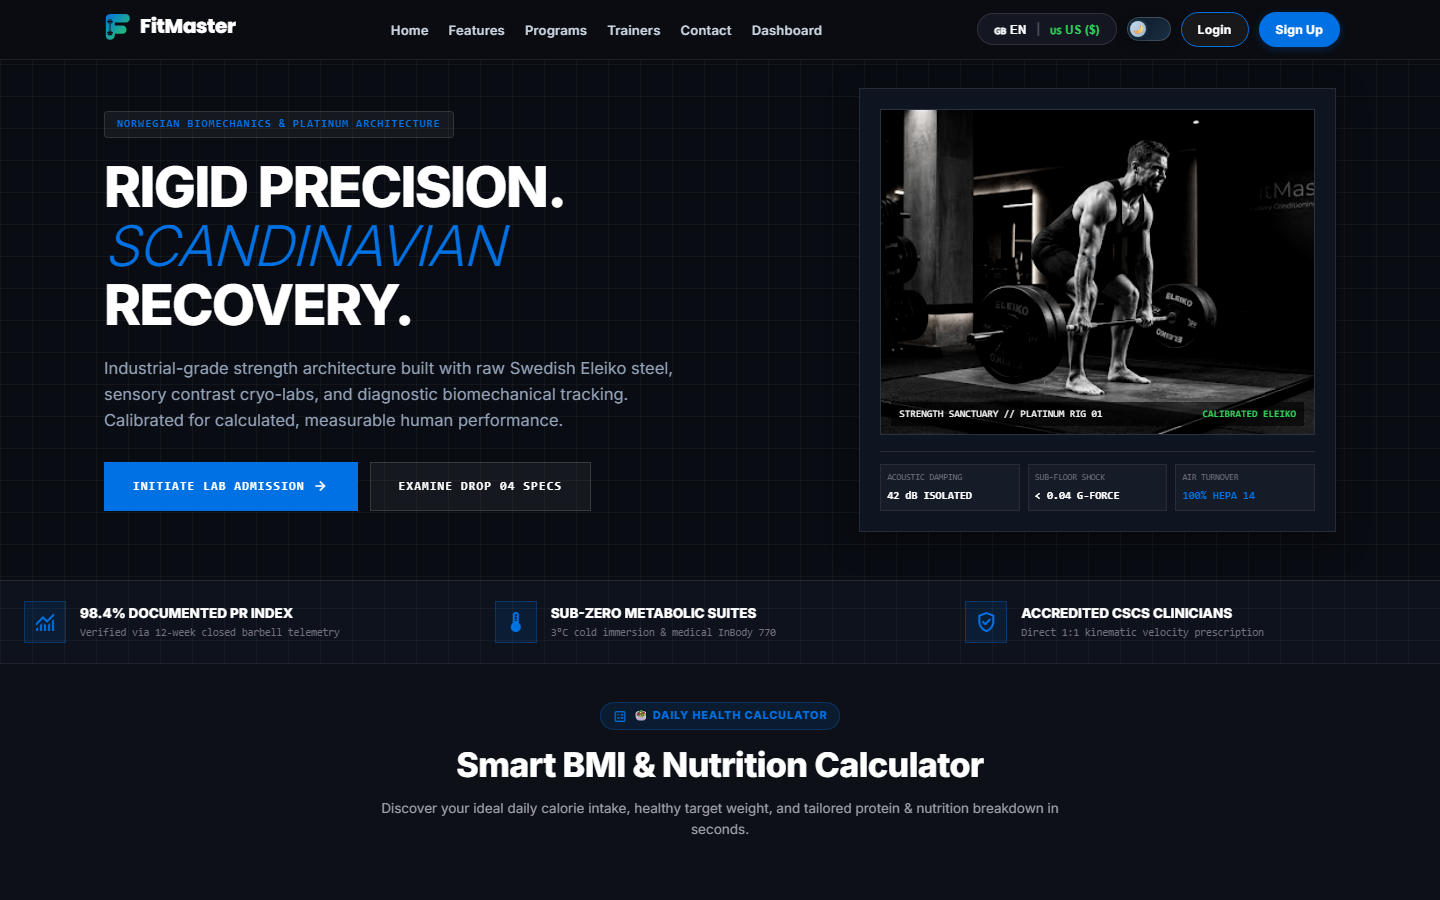
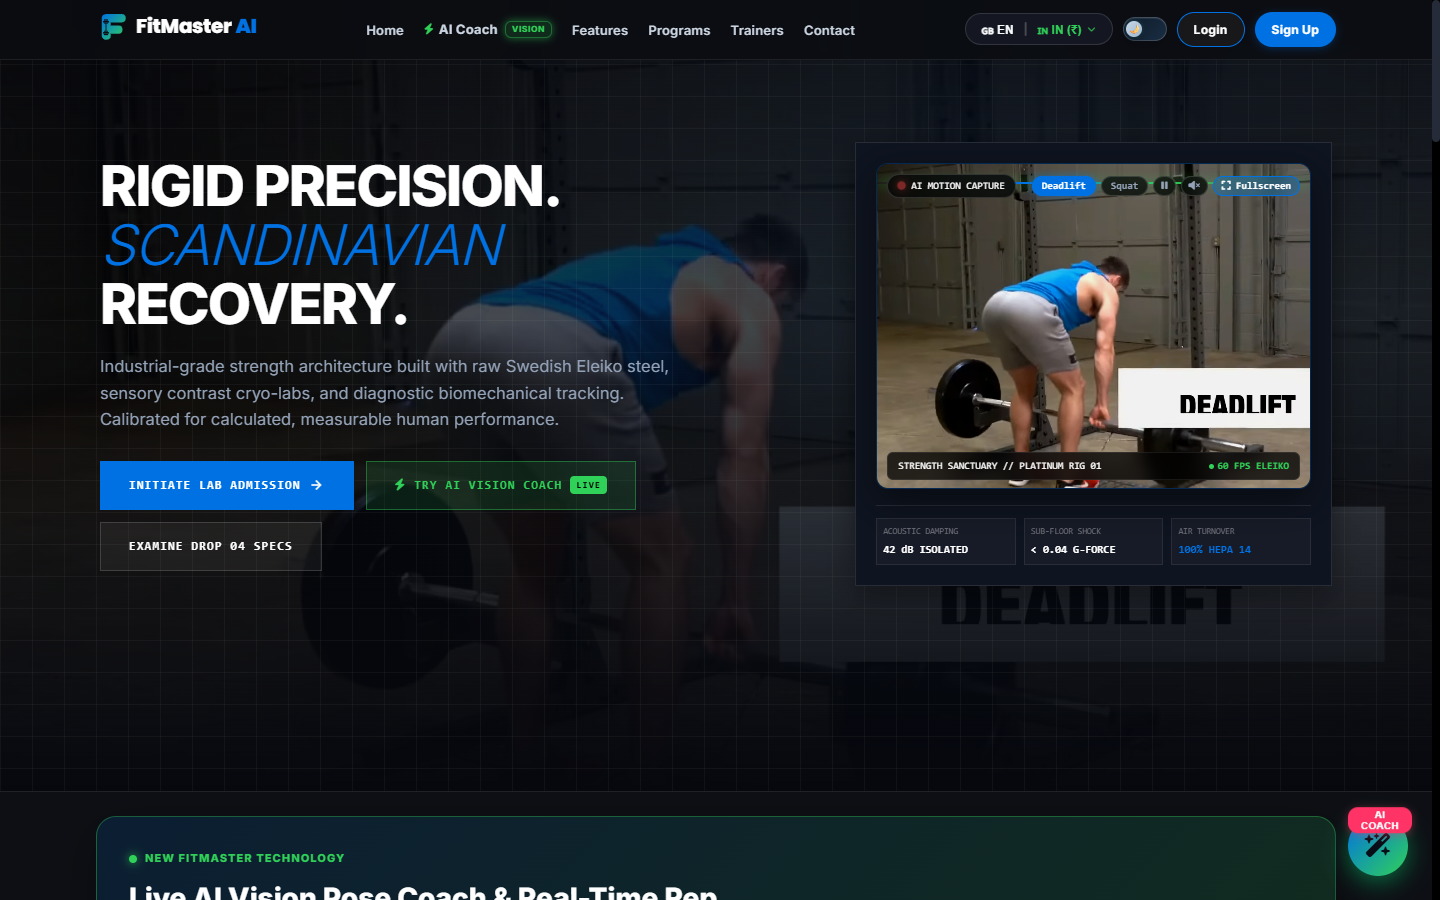
docs: Update README and add high-resolution screenshots for Fullscreen Video Hero, AI Vision Coach, and Architecture Blueprint

diff --git a/README.md b/README.md
@@ -1,17 +1,18 @@
-# ⚡ FitMaster — Next-Gen Fitness & Gym Management Platform
+# ⚡ FitMaster AI — Next-Gen AI Kinetic Fitness & Computer Vision Coaching Platform
 
 <p align="center">
-  <img src="static/images/fitmaster_logo.svg" alt="FitMaster Logo" width="180">
+  <img src="static/images/fitmaster_logo.svg" alt="FitMaster AI Logo" width="180">
 </p>
 
 <p align="center">
-  <b>An AI-powered, 3D interactive fitness ecosystem designed for athletes, personal trainers, and gym administrators.</b>
+  <b>An AI-powered, real-time computer vision fitness ecosystem designed for athletes, personal trainers, and gym administrators.</b>
 </p>
 
 <p align="center">
   <img src="https://img.shields.io/badge/Python-3.11%20%7C%203.12%20%7C%203.13-3776AB?style=for-the-badge&logo=python&logoColor=white" alt="Python">
-  <img src="https://img.shields.io/badge/Django-5.1%2B-092E20?style=for-the-badge&logo=django&logoColor=white" alt="Django">
-  <img src="https://img.shields.io/badge/Three.js-3D%20Visualizer-black?style=for-the-badge&logo=three.js&logoColor=white" alt="Three.js">
+  <img src="https://img.shields.io/badge/Django-6.0-092E20?style=for-the-badge&logo=django&logoColor=white" alt="Django">
+  <img src="https://img.shields.io/badge/Computer_Vision-MediaPipe_Pose-0071E3?style=for-the-badge&logo=google&logoColor=white" alt="MediaPipe">
+  <img src="https://img.shields.io/badge/AI_Chatbot-Google_Gemini-8E75C4?style=for-the-badge&logo=googlegemini&logoColor=white" alt="Gemini">
   <img src="https://img.shields.io/badge/Payment-Razorpay%20%2B%20UPI-00BAF2?style=for-the-badge&logo=razorpay&logoColor=white" alt="Razorpay">
   <img src="https://img.shields.io/badge/Status-Production%20Ready-brightgreen?style=for-the-badge" alt="Status">
 </p>
@@ -20,37 +21,43 @@
 
 ## 📸 Visual Previews & Screenshots
 
-### 1. 🌐 Landing Page & 3D Interactive Hero
-*Ultra-modern dark theme with Three.js particle dynamics, responsive navigation, and dynamic counters.*
-![FitMaster Landing Page](docs/screenshots/01_homepage.png)
+### 1. 🌐 Landing Page & Fullscreen Cinematic Video Hero
+*Industrial Eleiko steel dark theme with autoplaying athletic workout video background, laser scanner, and live AI vision access.*
+![FitMaster AI Landing Page](docs/screenshots/01_homepage.png)
 
 ---
 
-### 2. 🏋♂ Dynamic Workout & Training Programs
+### 2. 🤖 Live AI Vision Pose Coach & Real-Time Rep Counter
+*Client-side Google MediaPipe neural network tracking 33 skeletal body landmarks, validating joint angles (Squats, Curls, Pushups), and announcing live coaching audio cues.*
+![FitMaster AI Vision Coach](docs/screenshots/07_ai_coach.png)
+
+---
+
+### 3. 📑 Complete Engineering Architecture & Algorithmic Blueprint
+*System topology, Entity-Relationship schemas, Finite State Machine hysteresis, and DFD Level 0/1 specifications.*
+![FitMaster Architecture Documentation](docs/screenshots/08_architecture_docs.png)
+
+---
+
+### 4. 🏋♂ Dynamic Workout & Training Programs
 *Comprehensive catalog of Strength, Cardio, CrossFit, and Yoga programs with animated interactions.*
 ![FitMaster Programs](docs/screenshots/02_programs.png)
 
 ---
 
-### 3. 💳 Membership Tiers & Razorpay / UPI Gateway
-*Flexible starter, pro, and elite memberships integrated with Razorpay Checkout, BHIM UPI QR scan, and instant invoice generation.*
+### 5. 💳 Membership Tiers & Global Multi-Currency
+*Flexible starter, pro, and elite memberships integrated with 7-country currency switcher (INR, USD, EUR, GBP, AED, CAD, AUD) and instant invoicing.*
 ![FitMaster Memberships](docs/screenshots/03_memberships.png)
 
 ---
 
-### 4. 📞 Live 24/7 Support & Contact Center
-*Interactive contact system featuring instant WhatsApp chat (`wa.me`), one-click call (`tel:`), email support, and Google Maps GPS navigation.*
-![FitMaster Contact Support](docs/screenshots/04_contact_support.png)
-
----
-
-### 5. 📊 Admin Command Center (Live Platform Synchronization)
+### 6. 📊 Admin Command Center (Live Platform Synchronization)
 *Executive analytics dashboard featuring real-time financial tracking, member management, package control, and live sync engine.*
 ![FitMaster Admin Dashboard](docs/screenshots/05_admin_dashboard.png)
 
 ---
 
-### 6. 🏃 Athlete & Member Dashboard
+### 7. 🏃 Athlete & Member Dashboard
 *Personalized progress metrics, assigned personal trainer routines, BMI tracking, nutrition plans, and workout logs.*
 ![FitMaster Member Dashboard](docs/screenshots/06_customer_dashboard.png)
 
